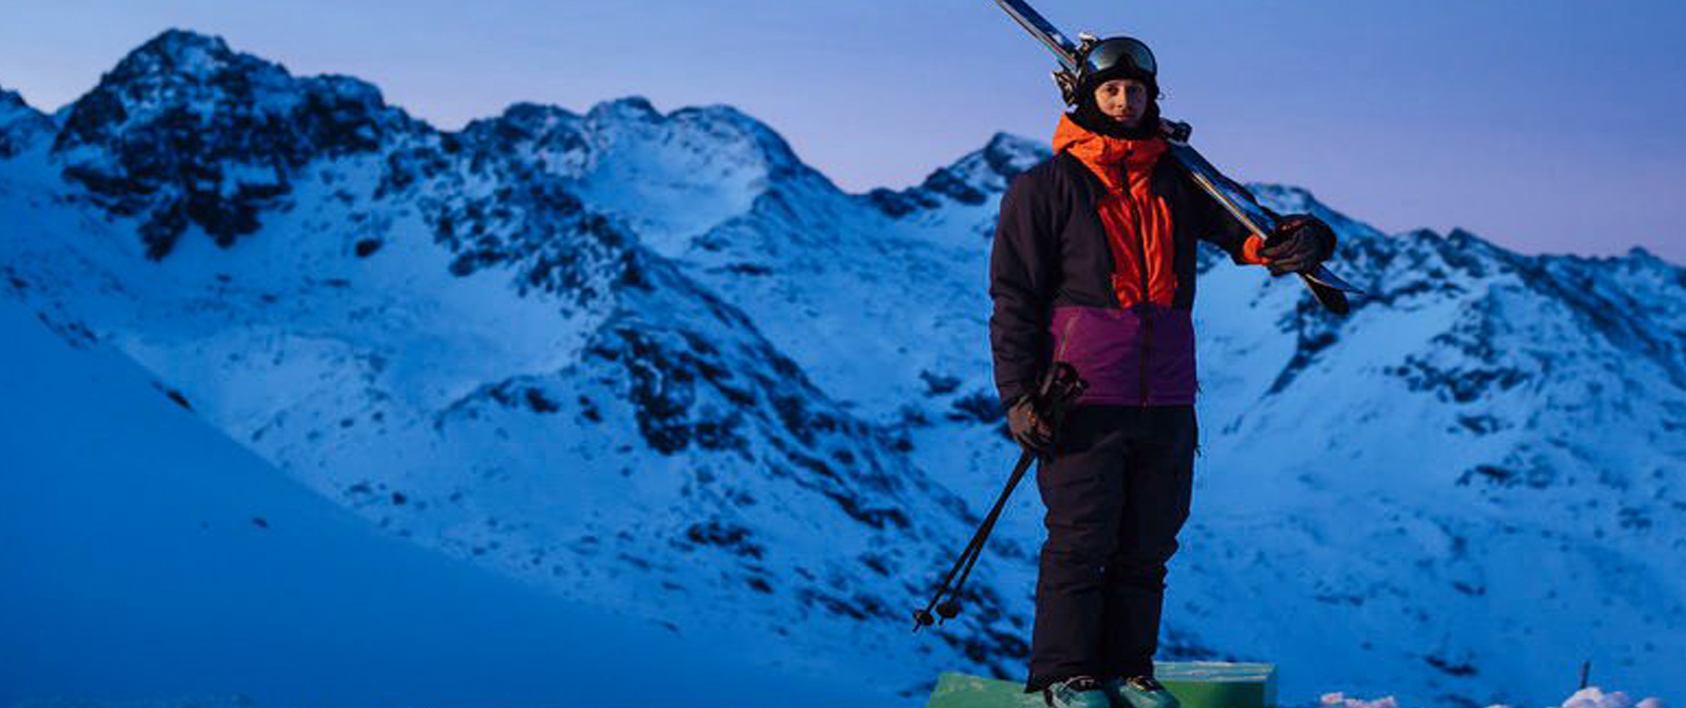
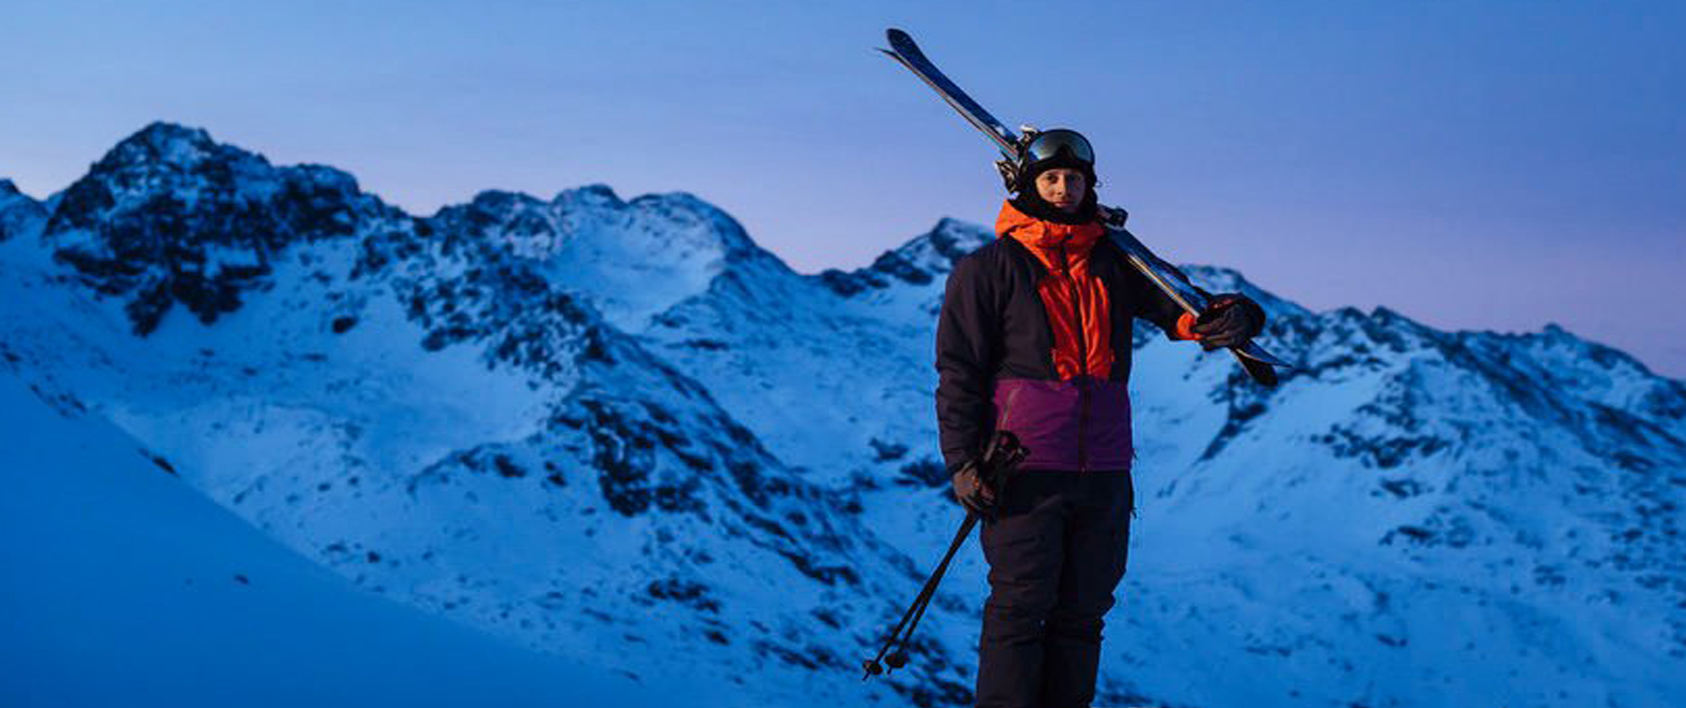
add sections

diff --git a/src/css/style.css b/src/css/style.css
@@ -9,8 +9,8 @@
 }
 
 body {
-    width: 1925px;
-    height: 1500px;
+    width: 1920px;
+    height: auto;
 }
 
 ul {
@@ -21,9 +21,8 @@ ul {
 a {text-decoration: none;
 }
 
-.container {
-    overflow:hidden;
-    width: 1700px;
+.main-content{
+    width: 1686px;
     margin: 0 auto;
     padding: 0;
 }
@@ -60,37 +59,36 @@ a {text-decoration: none;
     height: 17px;
 }
 .promo {
-    width: 100%;
-    height: 708px;
     position: relative;
+    width: 100%;
+    height: 780px;
     background-image: url("../img/main-image_1686x708.jpg" );
+    background-size: 100% 100%;
     background-repeat: no-repeat;
-    background-size: 100%;
+    background-position: center center;
 }
 
 .promo_banner {
-    width: 370px;
-    height: 200px;
+    width: 432px;
+    height: 177px;
     position: absolute;
-    top: 200px;
+    top: 317px;
     left: 74px;
     padding: 9px 12px 10px 17px;
     background-color: rgba(33, 56, 117, 0.65);
 }
 
-
 .promo_banner_text {
-    margin: 0;
-    font-size: 68px;
+    font-size: 74px;
     font-weight: 500;
     text-align: left;
     color: #fff;
+    line-height: 1;
     text-transform: uppercase;
 }
 
 .promo_banner_descript, .promo_banner_link {
-    margin: 0;
-    font-size: 28px;
+    font-size: 32px;
     font-weight: 200;
     text-align: left;
     color: #ffffff;
@@ -103,11 +101,98 @@ a {text-decoration: none;
 
 .promo_modal {
     position: absolute;
-    width: 300px;
-    height: 230px;
+    width: 463px;
+    height: 280px;
     top: 18px;
     right: 30px;
-    padding: 30px;
+    padding: 20px;
     border: solid 1px #dee1ea;
     background-color: #ffffff;
+}
+.promo_modal_text {
+    font-size: 24px;
+    font-weight: 400;
+    text-align: center;
+}
+
+.promo_modal_descript {
+    font-size: 18px;
+    font-weight: 200;
+    line-height: 1;
+    text-align: left;
+}
+
+.promo_modal_options {
+    display: flex;
+    flex-direction: row;
+    align-content: center;
+    justify-content: space-between;
+}
+.modal_button {
+    margin-top: 10px;
+    width: 157px;
+    height: 50px;
+    border: none;
+    font-size: 14px;
+    font-weight: 400;
+    letter-spacing: 2px;
+    text-align: center;
+    text-transform: uppercase;
+    background-color: #fff;
+}
+.button_active {
+    background-color: #e4c4c0;
+}
+
+.modal_button_icon {
+    margin-right: 15px;
+    width: 15px;
+    height: 15px;
+}
+
+.shopping {
+    margin-bottom: 57px;
+    width: 100%;
+    min-height: 965px;
+    border: 1px solid #e0e3eb;
+}
+
+.shopping_card {
+    display: inline-block;
+    padding-top: 51px;
+    width: 557px;
+    height: 965px;
+}
+
+.card-one {
+    /*padding-right: 18px;*/
+    padding-left: 50px;
+}
+.card-two {
+    padding-left: 29px;
+    border-left: 1px solid #e0e3eb;
+}
+
+.card-free {
+    padding-left: 18px;
+    border-left: 1px solid #e0e3eb;
+}
+
+.shopping-img {
+    width: 493px;
+    height: 668px;
+}
+.shopping_card_text {
+    padding-top: 30px;
+    font-size: 20px;
+    font-weight: 500;
+    text-align: left;
+}
+
+.button_read {
+    font-size: 13px;
+    font-weight: 200;
+    letter-spacing: 1px;
+    text-align: left;
+    text-transform: uppercase;
 }

diff --git a/src/index.html b/src/index.html
@@ -11,7 +11,7 @@
   <link rel="stylesheet" href="css/style.css">
 </head>
 <body>
- <div class="container">
+ <div class="main-content">
      <header class="header">
          <nav class="menu">
              <ul class="menu_list">
@@ -38,16 +38,36 @@
              <h3 class="promo_modal_text">Protest uses cookies</h3>
              <p class="promom_modal_descript">Protest Sportswear makes use of different types of cookies (funtional, analytical and marketing cookies). This is because we want to make sure that you have a good online experience when visiting us. To accept these cookies, click 'Accept'. Would you rather not accept the cookies? Click on 'Settings' below to set your preferences.</p>
              <div class="promo_modal_options">
-                 <div class="modal_button">
-                     <img src="img/icons/icon-settings.png" alt="settings icon">
-                     SETTINGS
+                 <div class="modal_button_group">
+                     <button class="modal_button"><img src="img/icons/icon-settings.png" alt="settings icon" class="modal_button_icon">Settings</button>
                  </div>
-                 <button>Accept</button>
+                 <button class="modal_button button_active">Accept</button>
              </div>
 
          </div>
+     </section>
+
+     <section class="shopping">
+         <div class="shopping_card card-one">
+                 <img src="img/first-section/Protest_FW2021_Women_37-475x633-c-default.jpg" alt="Women clothes" class="shopping-img">
+                 <p class="shopping_card_text">Women’s ski fashion 2021</p>
+                 <p class="button_read">read</p>
+         </div>
+         <div class="shopping_card card-two">
+             <img src="img/first-section/rouge-blanc-bleu-men-homepage-600x800-c-default.jpg" alt="Women clothes" class="shopping-img">
+             <p class="shopping_card_text">Men’s ski fashion 2021</p>
+             <p class="button_read">read</p>
+         </div>
+         <div class="shopping_card card-free">
+             <img src="img/first-section/Protest_FW2021_Kids_16-600x800-c-default.jpg" alt="Women clothes" class="shopping-img">
+             <p class="shopping_card_text">Girls’ ski fashion 2021</p>
+             <p class="button_read">read</p>
+         </div>
+     </section>
+     <section class="by-look">
 
      </section>
+
  </div>
 </body>
 </html>
